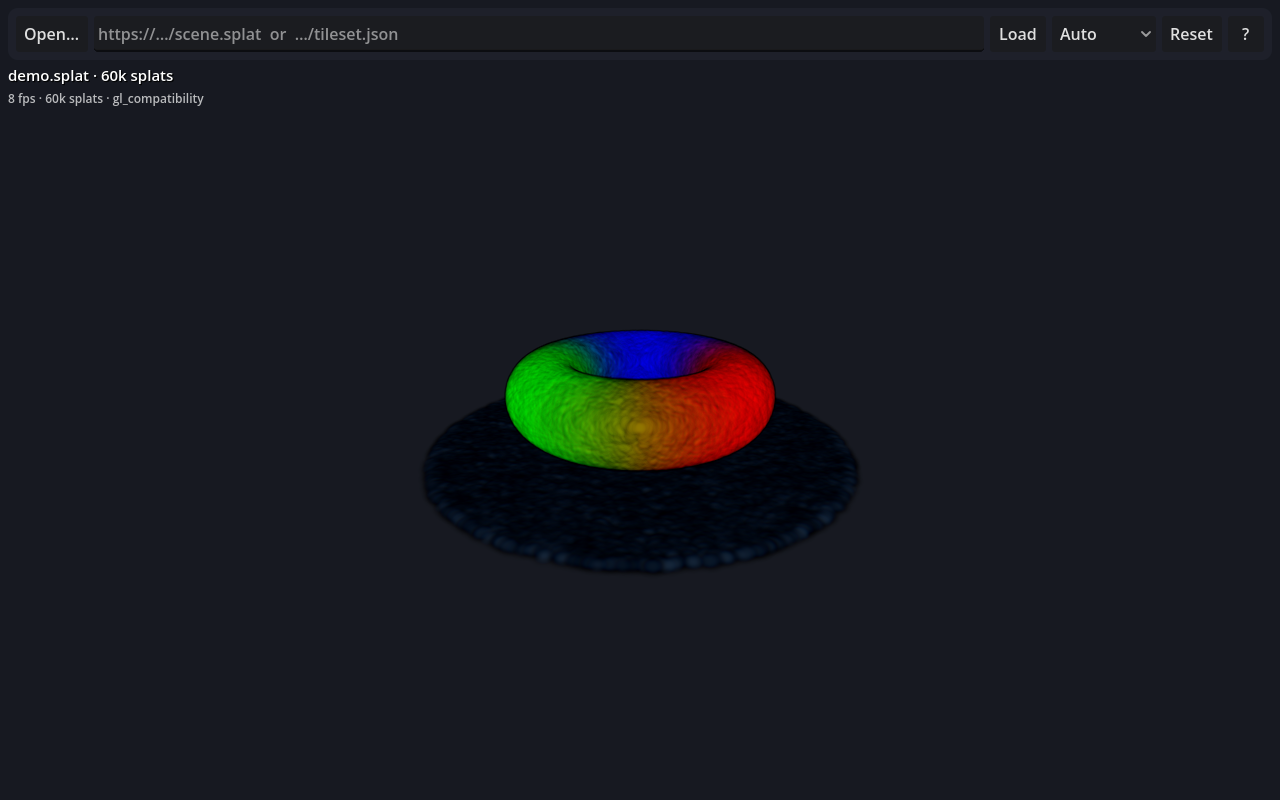
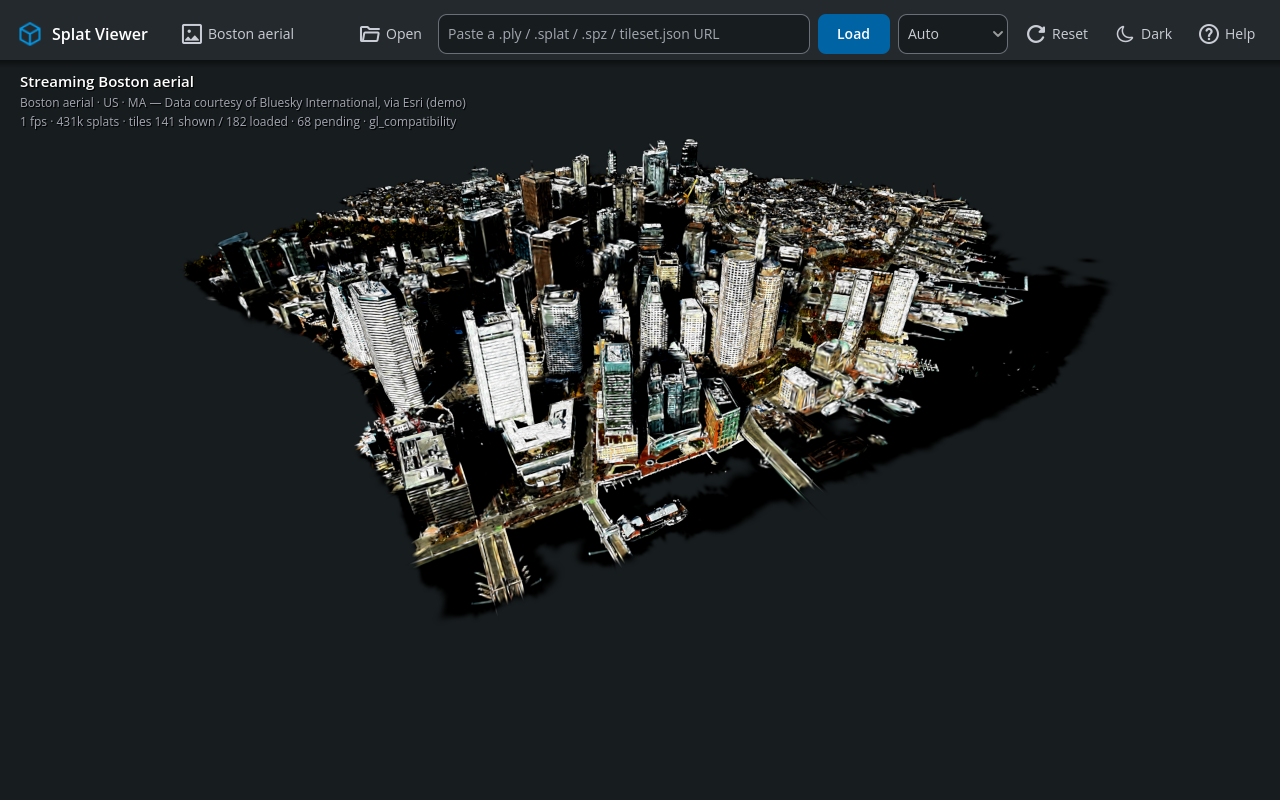
Deploy site 5afdb1b

diff --git a/play/index.html b/play/index.html
@@ -111,7 +111,7 @@ body {
 
 		<script src="index.js"></script>
 		<script>
-const GODOT_CONFIG = {"args":[],"canvasResizePolicy":2,"emscriptenPoolSize":8,"ensureCrossOriginIsolationHeaders":true,"executable":"index","experimentalVK":false,"fileSizes":{"index.pck":2386828,"index.wasm":1508095},"focusCanvas":true,"gdextensionLibs":["libgsplat.web.wasm32.wasm"],"godotPoolSize":4};
+const GODOT_CONFIG = {"args":[],"canvasResizePolicy":2,"emscriptenPoolSize":8,"ensureCrossOriginIsolationHeaders":true,"executable":"index","experimentalVK":false,"fileSizes":{"index.pck":2387276,"index.wasm":1508095},"focusCanvas":true,"gdextensionLibs":["libgsplat.web.wasm32.wasm"],"godotPoolSize":4};
 const GODOT_THREADS_ENABLED = false;
 const engine = new Engine(GODOT_CONFIG);
 

diff --git a/index.html b/index.html
@@ -42,7 +42,7 @@ a{color:var(--accent)}
 </header>
 <main>
  <section class="hero">
-  <img src="screenshot.png" alt="Splat Viewer showing a Gaussian splat scene" width="1280" height="800">
+  <img src="screenshot.png" alt="Splat Viewer streaming the Boston aerial Gaussian splat tileset" width="1280" height="800">
   <div class="body">
    <h2>Gaussian splats in your browser and on every device</h2>
    <p>An open-source viewer built on the Godot engine. It opens .ply, .splat and .spz files and streams OGC 3D Tiles splat scenes. Early preview.</p>
